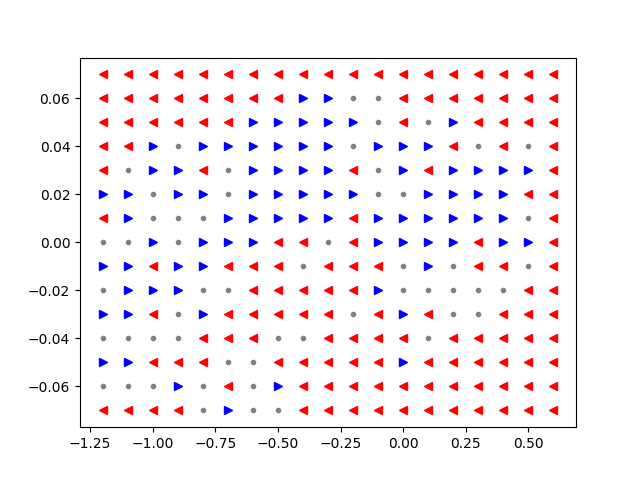
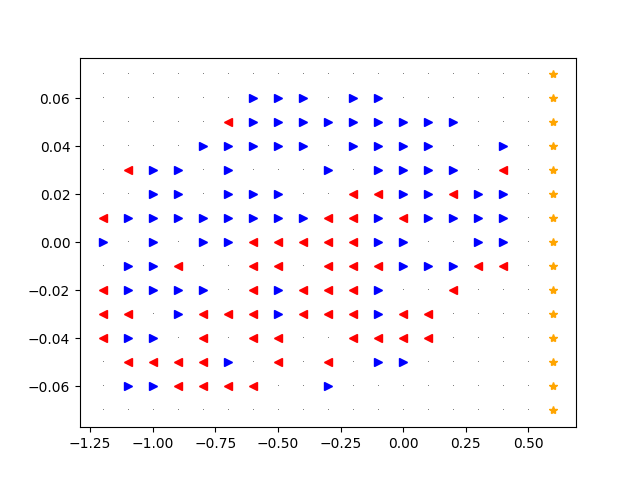
mountain car solved - action-map 3

diff --git a/Mountain Car/mountainCar.qLearning.py b/Mountain Car/mountainCar.qLearning.py
@@ -13,7 +13,7 @@ max_episodes = 5000
 epsillon = 1
 epsillon_decay = 1 / max_episodes
 # `MountainCar-v0` is considered solved if average reward bigger then -200
-reward_threshold = -170
+reward_threshold = -160
 discretize_array = [0.1, 0.01]
 log_stats_step = 50
 demos = 7
@@ -179,14 +179,26 @@ for i in range(demos):
 
 env.close()
 
-signs = ['<', '.', '>']
+signs = ['<', ',', '>']
 colors = ["red", 'grey', "blue"]
 
 for i in range(len(qLearning.qTable)):
-    x: float = i*discretize_array[0] + env.observation_space.low[0]
+    x: float = round(i*discretize_array[0] + env.observation_space.low[0], 1)
     for j in range(len(qLearning.qTable[0])):
-        y: float = j*discretize_array[1] + env.observation_space.low[1]
+        y: float = round(
+            j*discretize_array[1] + env.observation_space.low[1], 2)
+
         action: int = np.argmax(qLearning.qTable[i][j])
-        plt.plot(x, y, marker=signs[action], color=colors[action])
+        if (qLearning.qTable[i][j][action] == 0):
+            action = 1
+
+        if (x >= 0.6):
+            marker = '*'
+            color = 'orange'
+        else:
+            marker = signs[action]
+            color = colors[action]
+
+        plt.plot(x, y, marker=marker, color=color)
 
 plt.show()
